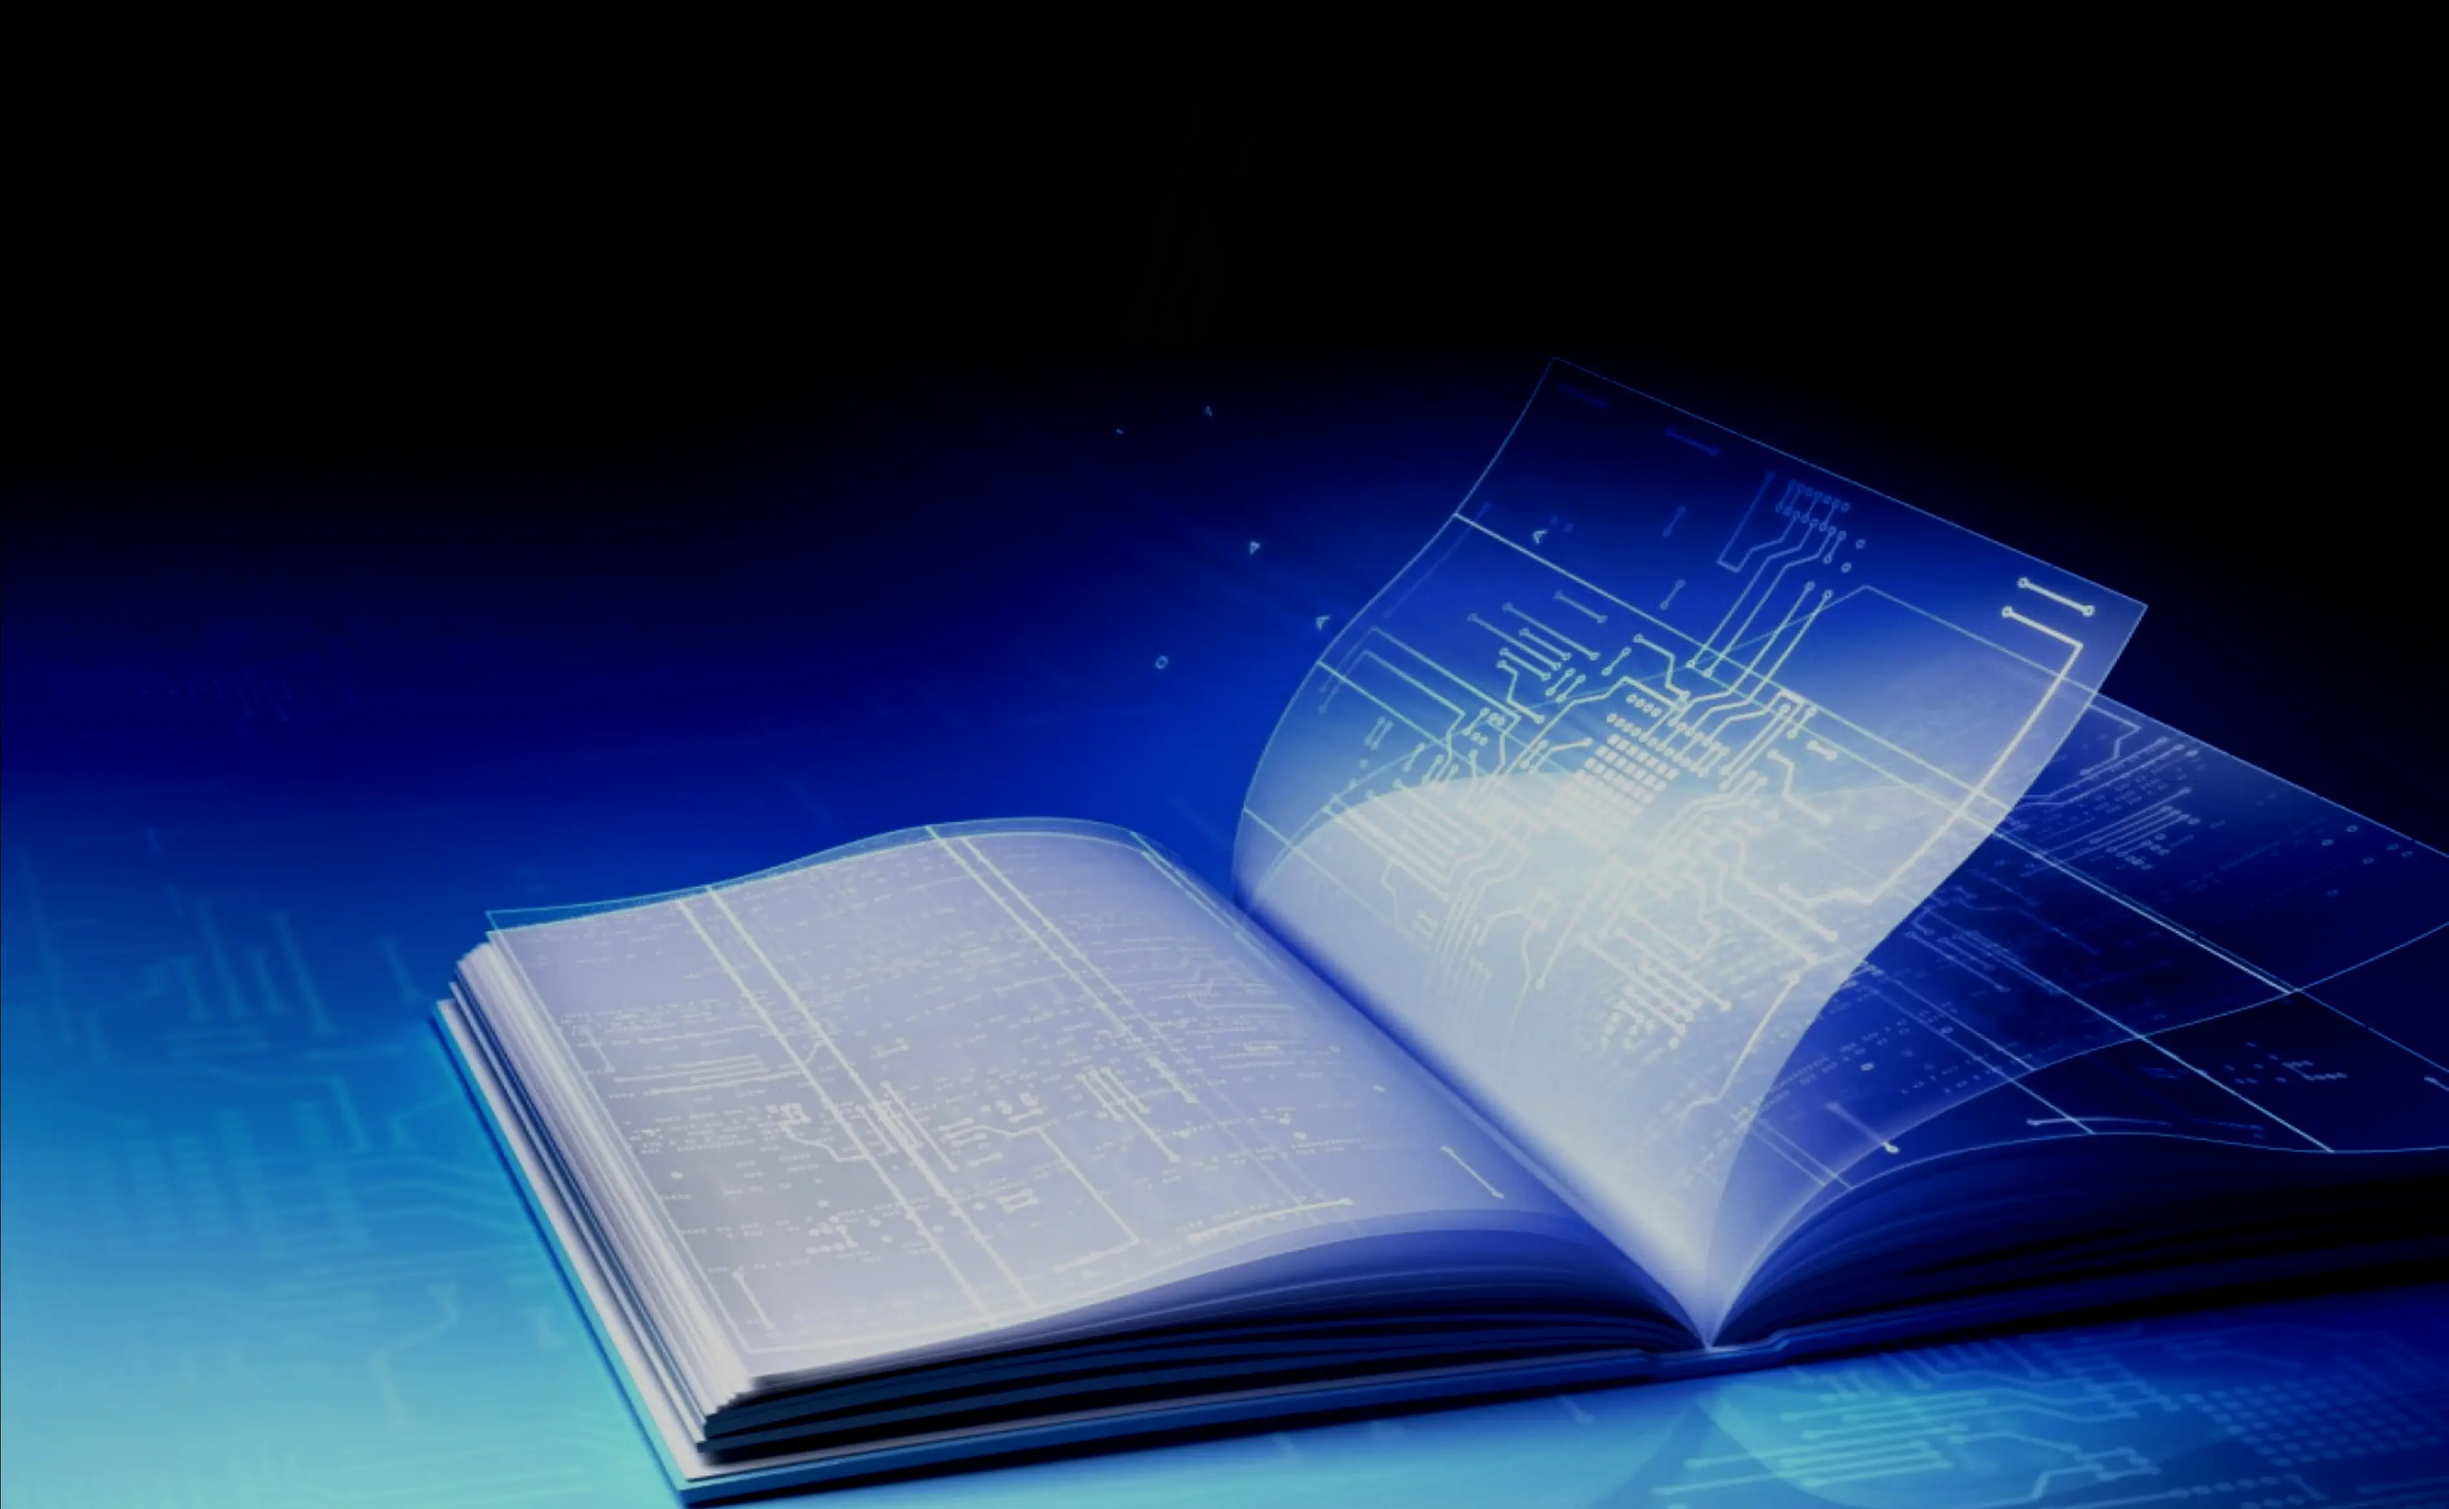
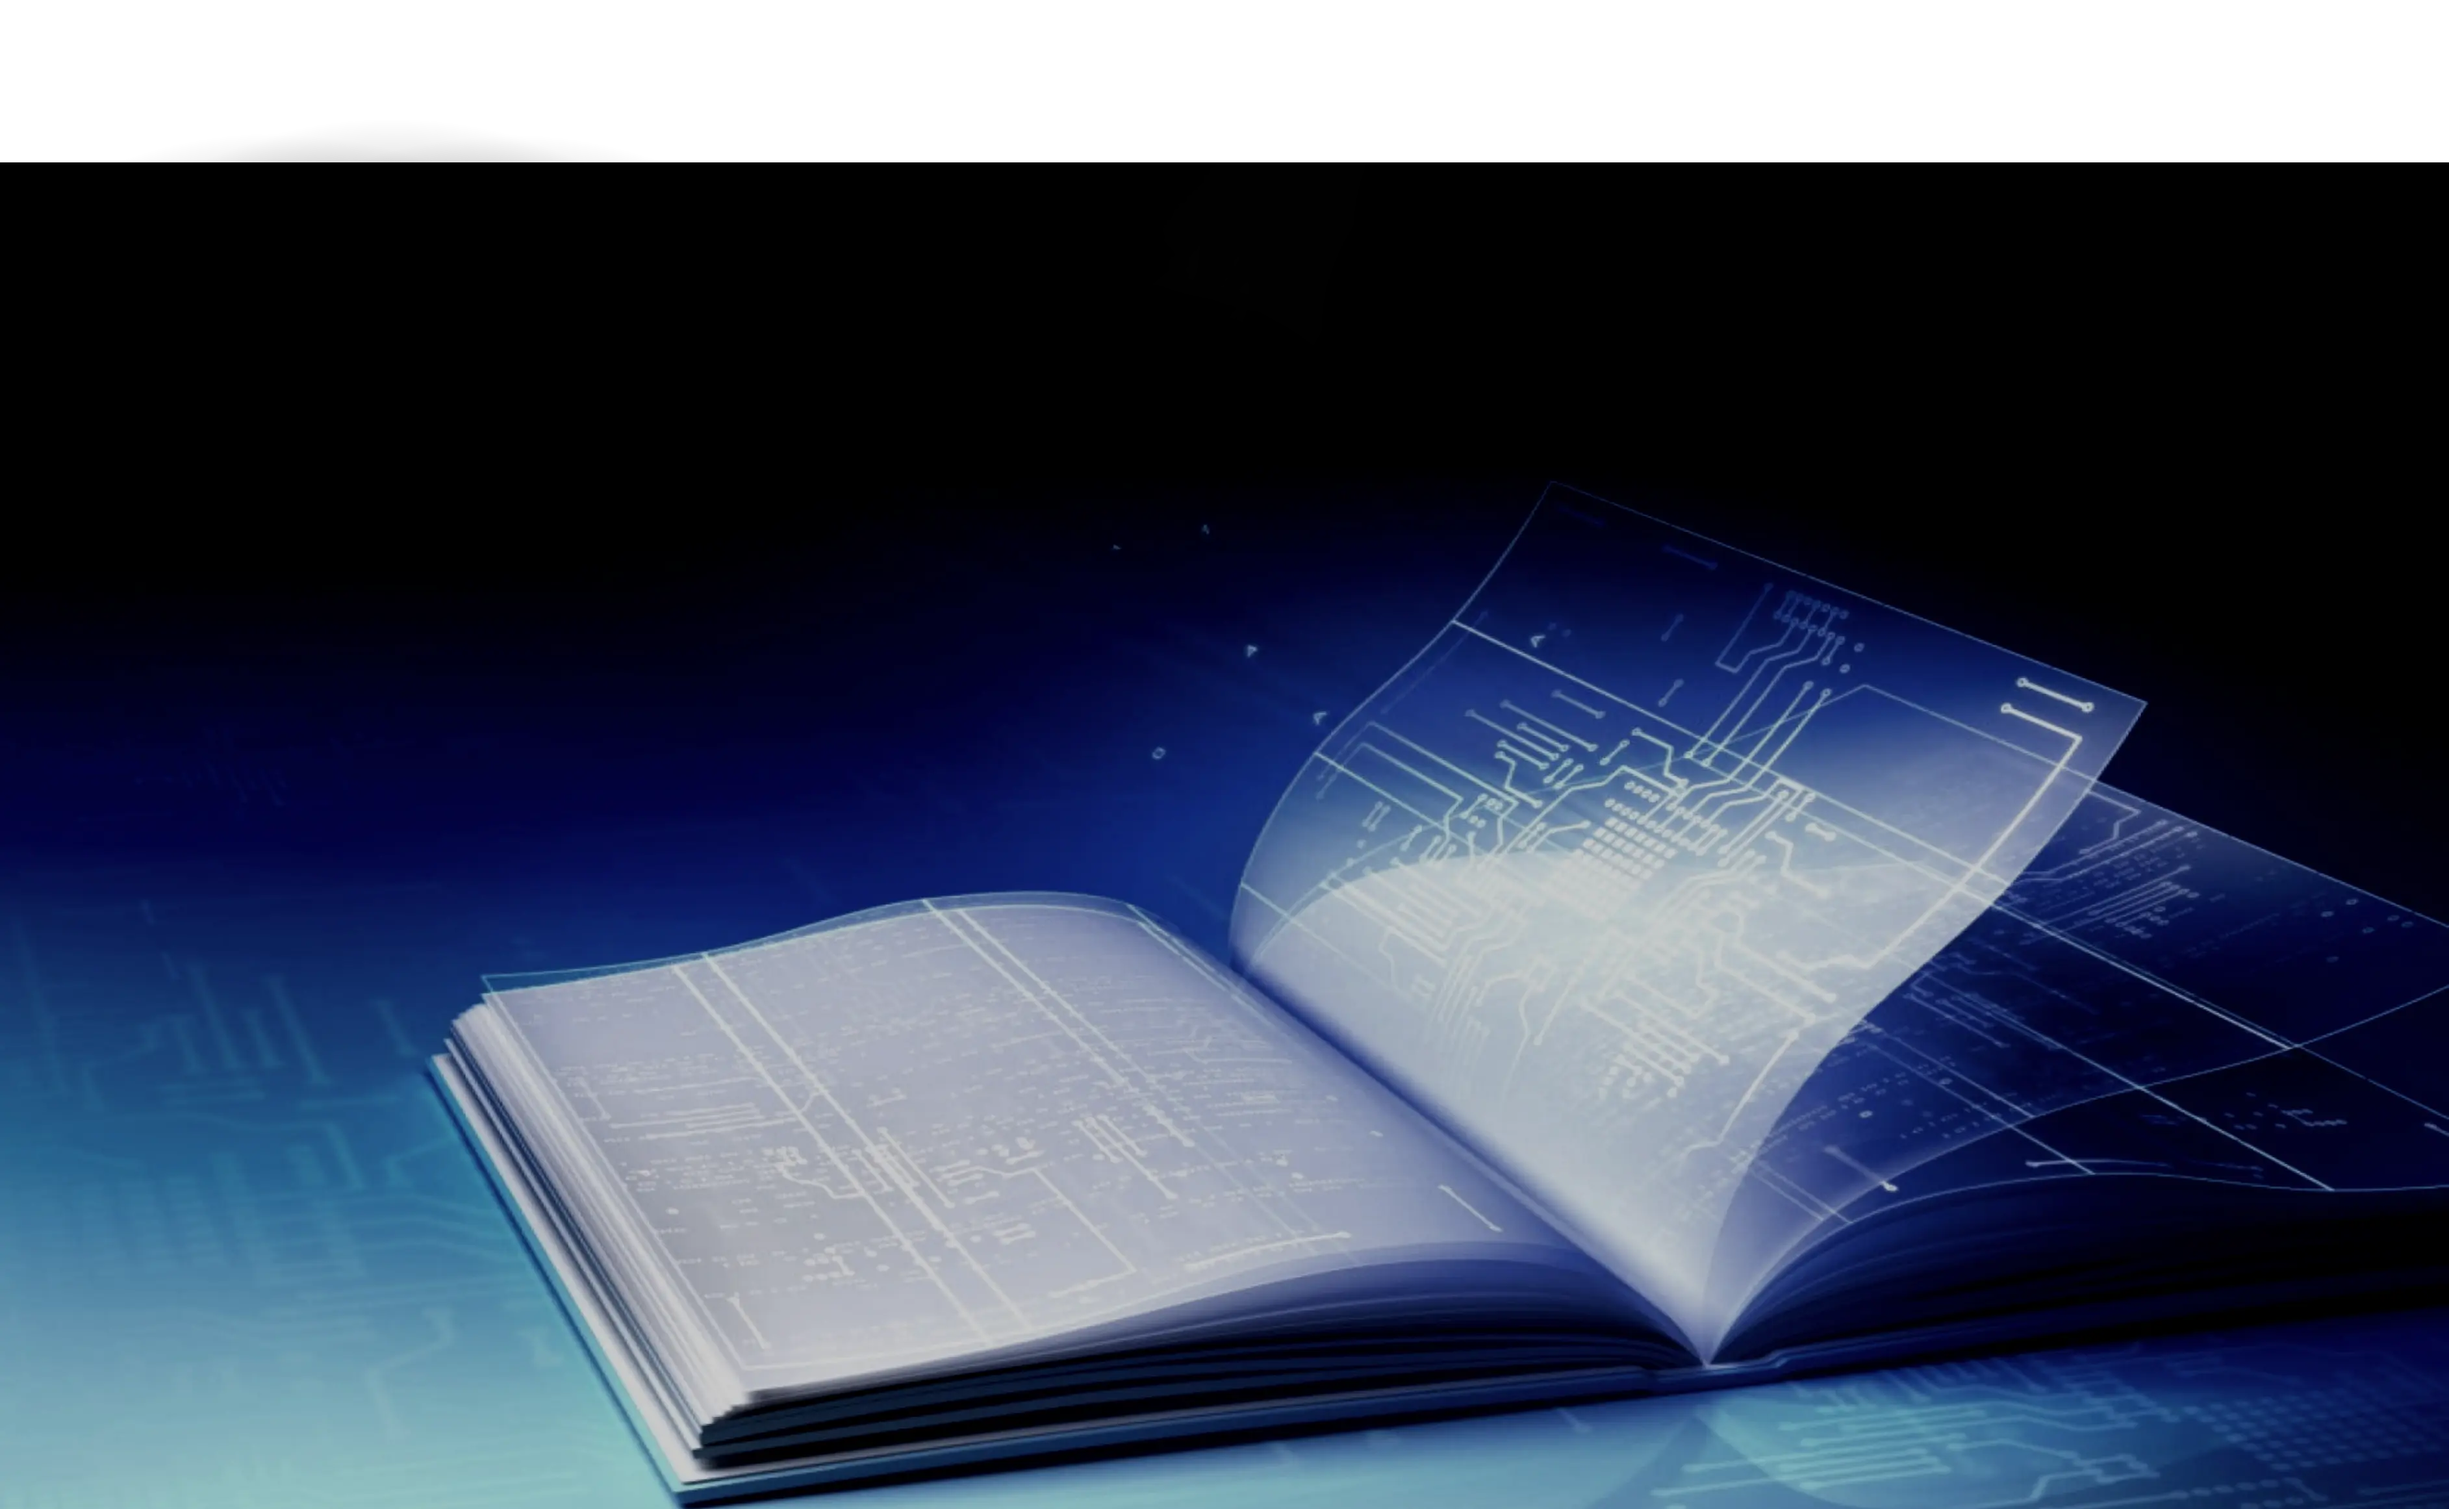
menambah footer

diff --git a/index.html b/index.html
@@ -63,6 +63,15 @@
         background-position: left;
       }
 
+      footer {
+        padding-top: 40vh;
+        padding-bottom: 3vh;
+        background-image: url("bg-4.webp");
+        background-repeat: no-repeat;
+        background-size: cover;
+        background-position: center;
+      }
+
       .neon-input:focus {
         box-shadow: 0 0 2px #03e9f4, 0 0 3px #03e9f4, 0 0 5px #03e9f4,
           0 0 20px #03e9f4, inset 0 0 5px #03e9f4;
@@ -280,6 +289,17 @@
         border-color: #fff !important;
         color: #fff !important;
       }
+
+      .send:hover {
+        border-color: #03e9f4!important;
+        box-shadow: 0 0 2px #03e9f4, 0 0 3px #03e9f4, 0 0 5px #03e9f4,
+          0 0 20px #03e9f4, inset 0 0 5px #03e9f4;
+      }
+
+      .send:active {
+        background-color: #03e9f4 !important;
+        color: #fff !important;
+      }
     </style>
   </head>
   <body style="background-color: #000000" class="text-white">
@@ -474,12 +494,14 @@
         </div>
       </div>
     </section>
-    <section id="contactus" class="content">
+    <section id="contactus" class="content overflow-hidden">
       <div class="container-fluid text-justify">
         <div class="row ps-2 pe-2 ps-lg-0 pe-lg-0">
           <div class="col-lg-6 col-0"></div>
           <div
-            class="col-lg-6 col-12 align-items-center align-content-center"
+            class="col-lg-6 col-12 align-items-center align-content-center aos-init aos-animate"
+            data-aos="fade-left"
+            data-aos-offset="300"
           >
             <div class="container contact">
               <div class="row">
@@ -501,7 +523,7 @@
                               <textarea rows="1" cols="50" name="message" class="form-control p-0 mb-2" id="message" placeholder="Message..." tabindex="4" required></textarea>                                 
                           </div>
                           <div class="text-center">
-                              <button type="submit" class="btn btn-start-order">Send Message</button>
+                              <button type="submit" class="btn send btn-start-order">Send Message</button>
                           </div>
                       </form>
                   </div>
@@ -511,8 +533,56 @@
         </div>
       </div>
     </section>
-    <footer class="pt-5 pb-5">
-      <div>Footer</div>
+    <footer class="content overflow-hidden text-center text-lg-start text-white" >
+        <!-- Grid container -->
+        <div class="container p-4 pb-0">
+
+          <!-- Section: Social media -->
+          <section class="mb-4 text-center">
+
+            <!-- Twitter -->
+            <a
+              class="btn btn-outline-light btn-floating m-1"
+              href="#!"
+              role="button"
+              ><i class="fab fa-twitter"></i
+              ></a>
+
+            <!-- Instagram -->
+            <a
+              class="btn btn-outline-light btn-floating m-1"
+              href="#!"
+              role="button"
+              ><i class="fab fa-instagram"></i
+              ></a>
+
+            <!-- Linkedin -->
+            <a
+              class="btn btn-outline-light btn-floating m-1"
+              href="#!"
+              role="button"
+              ><i class="fab fa-linkedin-in"></i
+              ></a>
+
+            <!-- Github -->
+            <a
+              class="btn btn-outline-light btn-floating m-1"
+              href="#!"
+              role="button"
+              ><i class="fab fa-github"></i
+              ></a>
+          </section>
+          <!-- Section: Social media -->
+        </div>
+        <!-- Grid container -->
+
+        <!-- Copyright -->
+        <div
+            class="text-center p-3" id="copyright"
+            style="background-color: rgba(0, 0, 0, 0.3)"
+            >
+            © 2023 DocxFaux. All rights reserved.
+        </div>
     </footer>
     <script src="https://unpkg.com/aos@2.3.1/dist/aos.js"></script>
     <script
@@ -691,6 +761,15 @@
                 });
             } 
         });
+    </script>
+    <script>
+      $(document).ready(function () {
+        var date = new Date();
+        var year = date.getFullYear();
+        if (year > 2023) {
+          $("#copyright").text("© 2023-"+year+" DocxFaux. All rights reserved.");
+        }
+      });
     </script>
   </body>
 </html>
